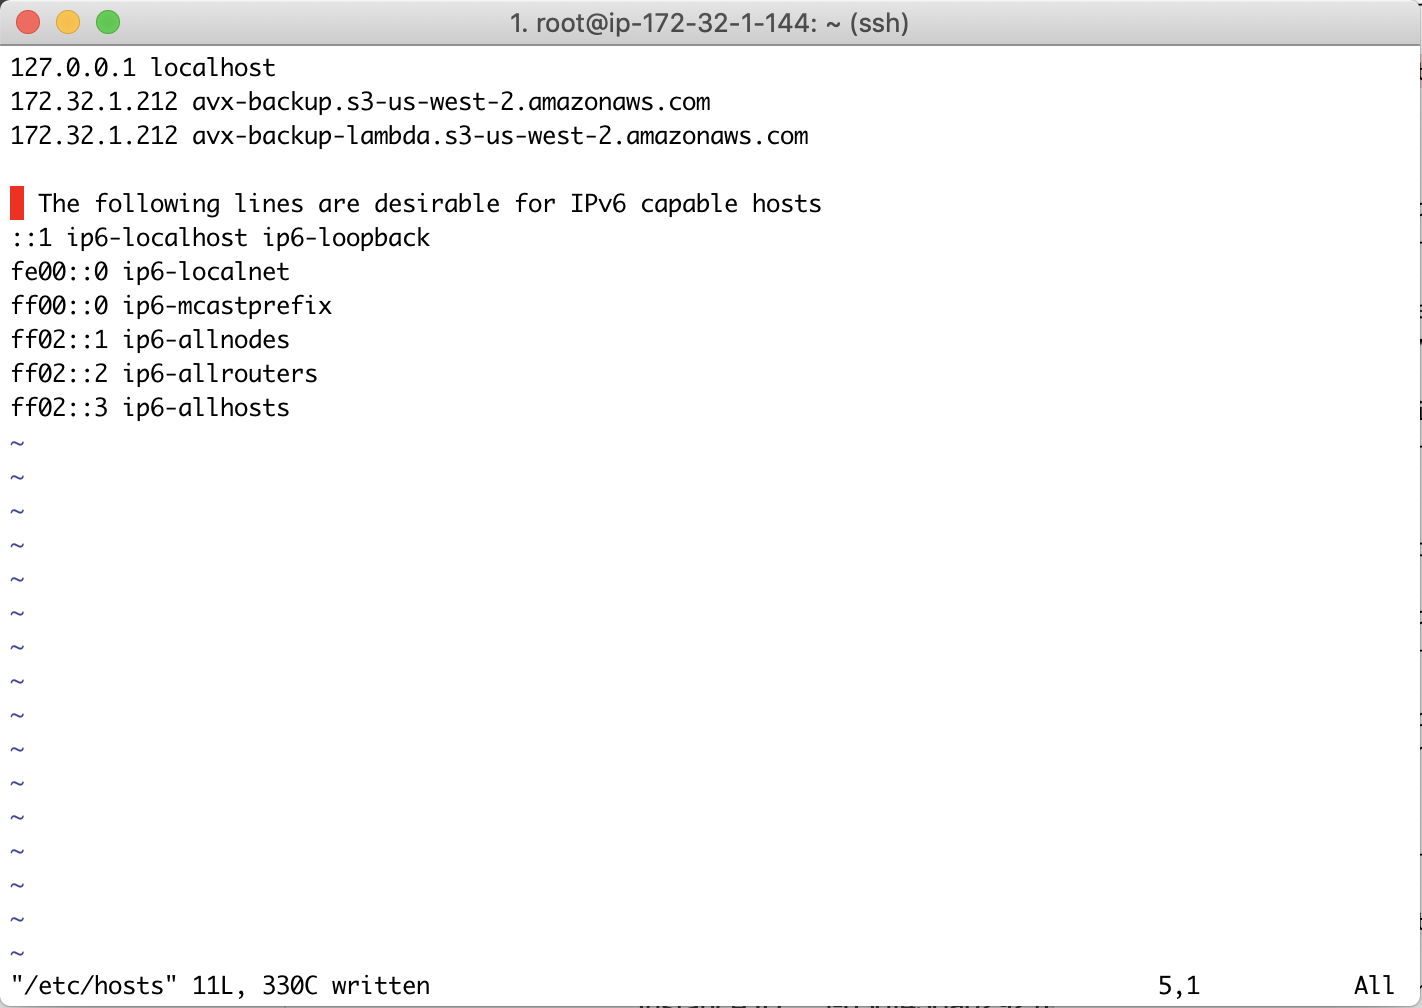
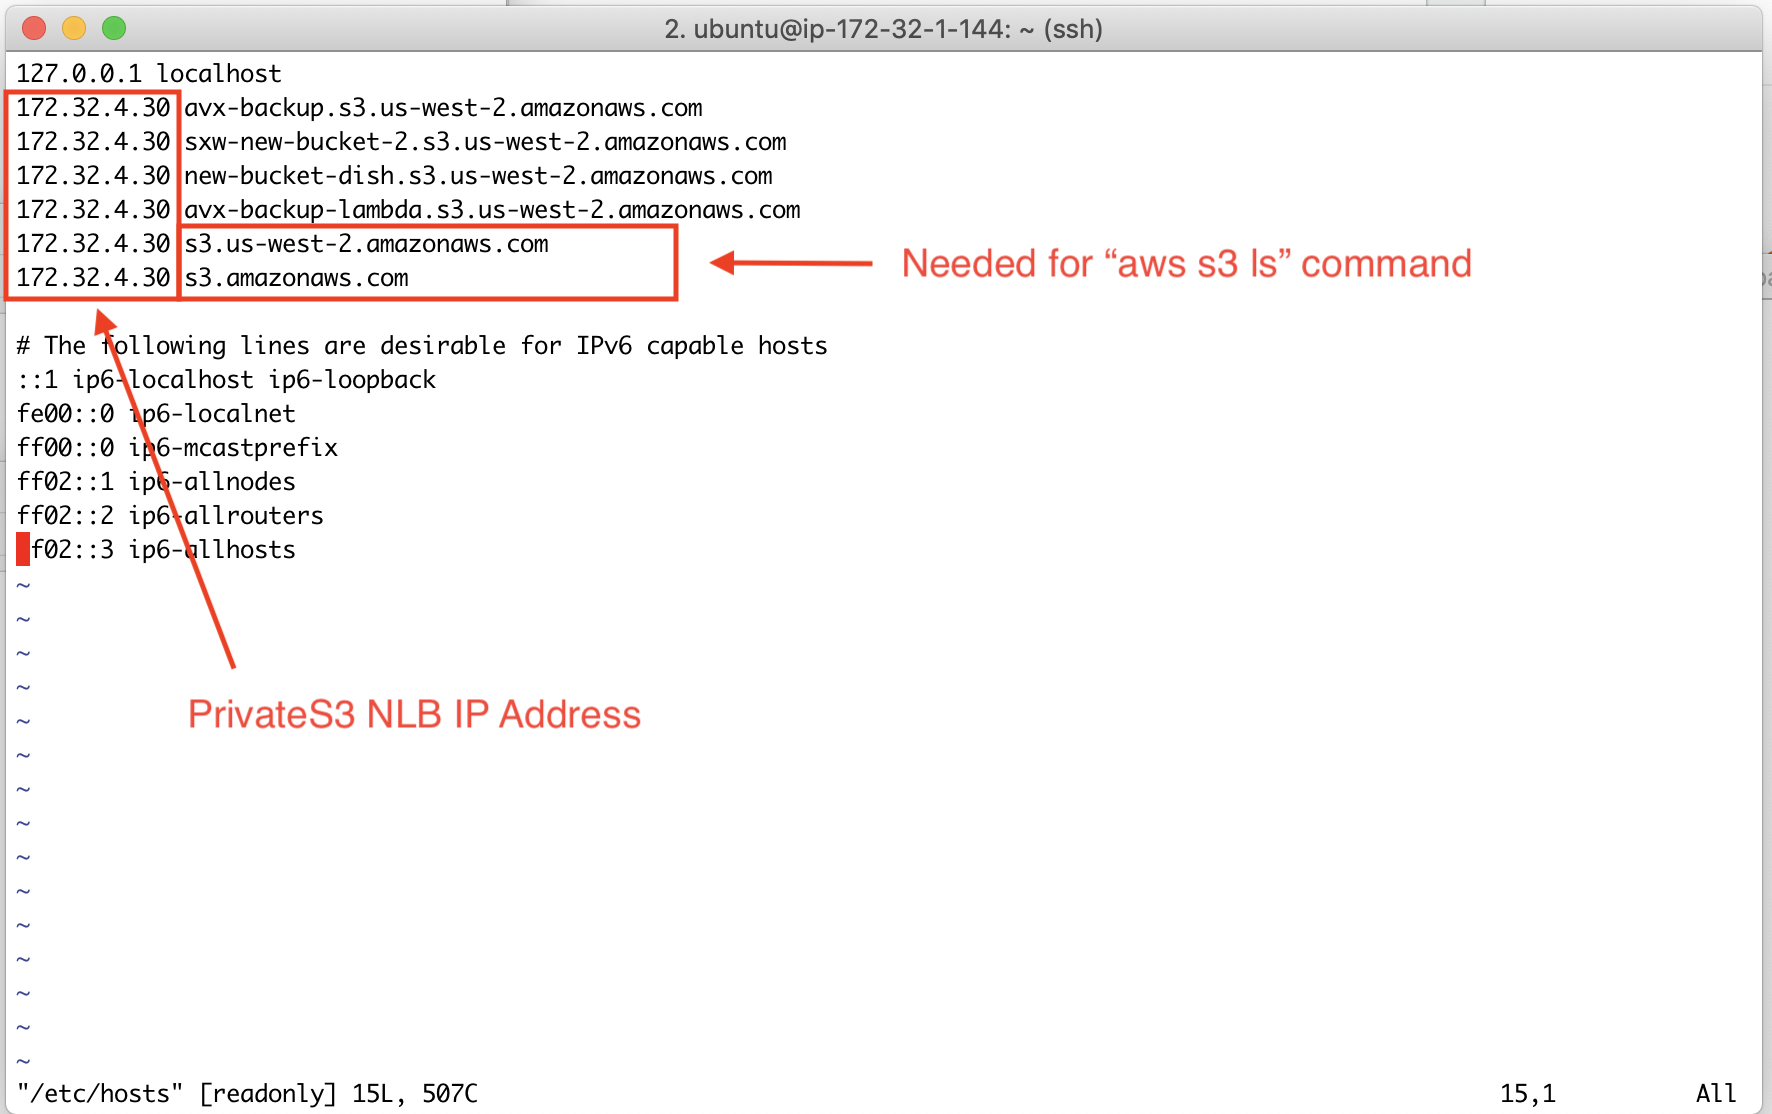
update privateS3

Changed region(s): [[0.0, 0.0, 1.0, 1.0], [0.0928, 0.6151, 0.3713, 0.6766], [0.3713, 0.0, 0.6498, 0.0615]]

diff --git a/HowTos/sfc_faq.rst b/HowTos/sfc_faq.rst
@@ -103,9 +103,19 @@ How can I test PrivateS3?
 
 There is a simple method to simulate DNS resolution to the PrivateS3 internal NLB. 
 
-Launch a Linux instance or host, in sudo mode, edit file /etc/hosts. Add S3 bucket FQDN names to this file, as shown in the example below.
+Launch a Linux instance or host, in sudo mode, edit file /etc/hosts. Add S3 bucket FQDN names to this file, as shown in the example below, where 172.32.1.212 is the PrivateS3 NLB IP address. This IP address can be found `here <https://docs.aviatrix.com/HowTos/privateS3_workflow.html#step-5-view-delete-privates3>`_.
 
 |dns_emulation|
+
+You can then run an AWS CLI command, such as "aws s3 ls", you should be able to see the list of S3 buckets on the Access Account 
+in the region where a PrivateS3 gateway is launched. 
+
+Below is another example of uploading  a file to S3 using AWS CLI 
+
+::
+
+  ubuntu@ip-172-32-1-144:~$ aws s3 cp init-cfg.txt.3 s3://sxw-new-bucket-2
+  upload: ./init-cfg.txt.3 to s3://sxw-new-bucket-2/init-cfg.txt.3  
 
 
 How do I troubleshoot PrivateS3?
